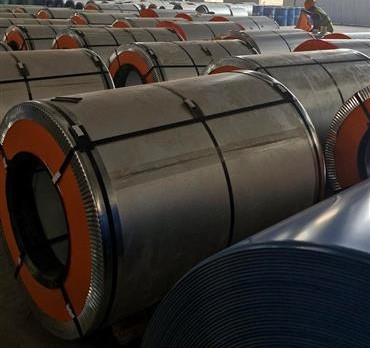
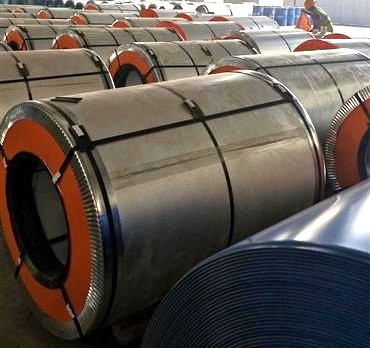
updated design

diff --git a/subbrand4.html b/subbrand4.html
@@ -59,10 +59,10 @@
                 <h3 style="color: #ff6600 ">PHOTO GALLERY</h3>
                 <div class="gallery-grid">
                     
-                        <img src="images/Alfa.jpg" alt="Gallery Image 1">
+                        <img src="images/alfa3.jpg" alt="Gallery Image 1">
                         <img src="Alfafl.jpg" alt="Gallery Image 2">
-                        <img src="images/Alfa3.jpg" alt= "Gallery Image 3">
-                        <img src="images/alfa4.jpg" alt="Gallery Image 4">
+                        <img src="images/Alfa4.jpg" alt= "Gallery Image 3">
+                        <img src="images/Alfa.jpg" alt="Gallery Image 4">
                     </div>
                 </div>
             </div>
@@ -101,12 +101,7 @@
 
             <tr>
 
-             <td   colspan="2" valign="bottom"><strong>1Nos. Continuous Galvanizing Lines.</strong><!--
-                
-              
-            </tr-->
-
-          </td></tr></tbody></table>
+             </tr></tbody></table>
         <!-- Navigation Back and Enquire Now -->
         <div class="navigation">
             <a href="index.html" class="back-button">Back to Master Brand</a>

diff --git a/subbrand3.html b/subbrand3.html
@@ -55,10 +55,10 @@
             <div class="gallery">
                 <h3>Photo Gallery</h3>
                 <div class="gallery-grid">
-                    <img src="images/azure1.jpg" alt="Gallery Image 1">
-                    <img src="images/azure2.jpg" alt="Gallery Image 2">
+                    <img src="images/azure2.jpg" alt="Gallery Image 1">
+                    <img src="azurefl.jpg" alt="Gallery Image 2">
                     <img src="images/azure3.jpg" alt="Gallery Image 3">
-                    <img src="azurefl.jpg" alt="Gallery Image 4">
+                    <img src="images/azure1.jpg" alt="Gallery Image 4">
                 </div>
             </div>
         </div>

diff --git a/subbrand1.html b/subbrand1.html
@@ -56,9 +56,9 @@
             <div class="gallery">
                 <h3 style="text-align: center;">GALLERY</h3>
                 <div class="gallery-grid">
-                    <img src="Roaylefl.jpg" alt="Gallery Image 1">
-                    <img src="images/royale2.jpg" alt="Gallery Image 2">
-                    <img src="RoyaleGP.png" alt="Gallery Image 3">
+                    <img src="RoyaleGP.png" alt="Gallery Image 1">
+                    <img src="Roaylefl.jpg" alt="Gallery Image 2">
+                    <img src="images/royale2.jpg" alt="Gallery Image 3">
                     <img src="images/royale4.jpg" alt="Gallery Image 4">
                 </div>
             </div>

diff --git a/subbrand2.html b/subbrand2.html
@@ -51,9 +51,9 @@
                 <br>    
                 <h3>PHOTO GALLERY</h3>
                 <div class="gallery-grid">
-                    <img src="images/Elitefl.jpg" alt="Gallery Image 1">
-                    <img src="images/Elite4.png" alt="Gallery Image 2">
-                    <img src="images/EliteGF.png" alt= "Gallery Image 3">
+                    <img src="images/EliteGF.png" alt="Gallery Image 1">
+                    <img src="images/Elitefl.jpg" alt="Gallery Image 2">
+                    <img src="images/Elite3.jpg" alt= "Gallery Image 3">
                     <img src="images/Elite1.jpg" alt="Gallery Image 4">
                 </div>
             </div>

diff --git a/brandpage.css b/brandpage.css
@@ -159,7 +159,7 @@ h1 {
     width: 100%;
     height: 100%;
     border-radius: 10px;
-    object-fit: fill;
+    object-fit: contain;
     box-shadow: 0 8px 16px rgba(0, 0, 0, 0.1);
     transition: transform 0.3s ease;
 }
